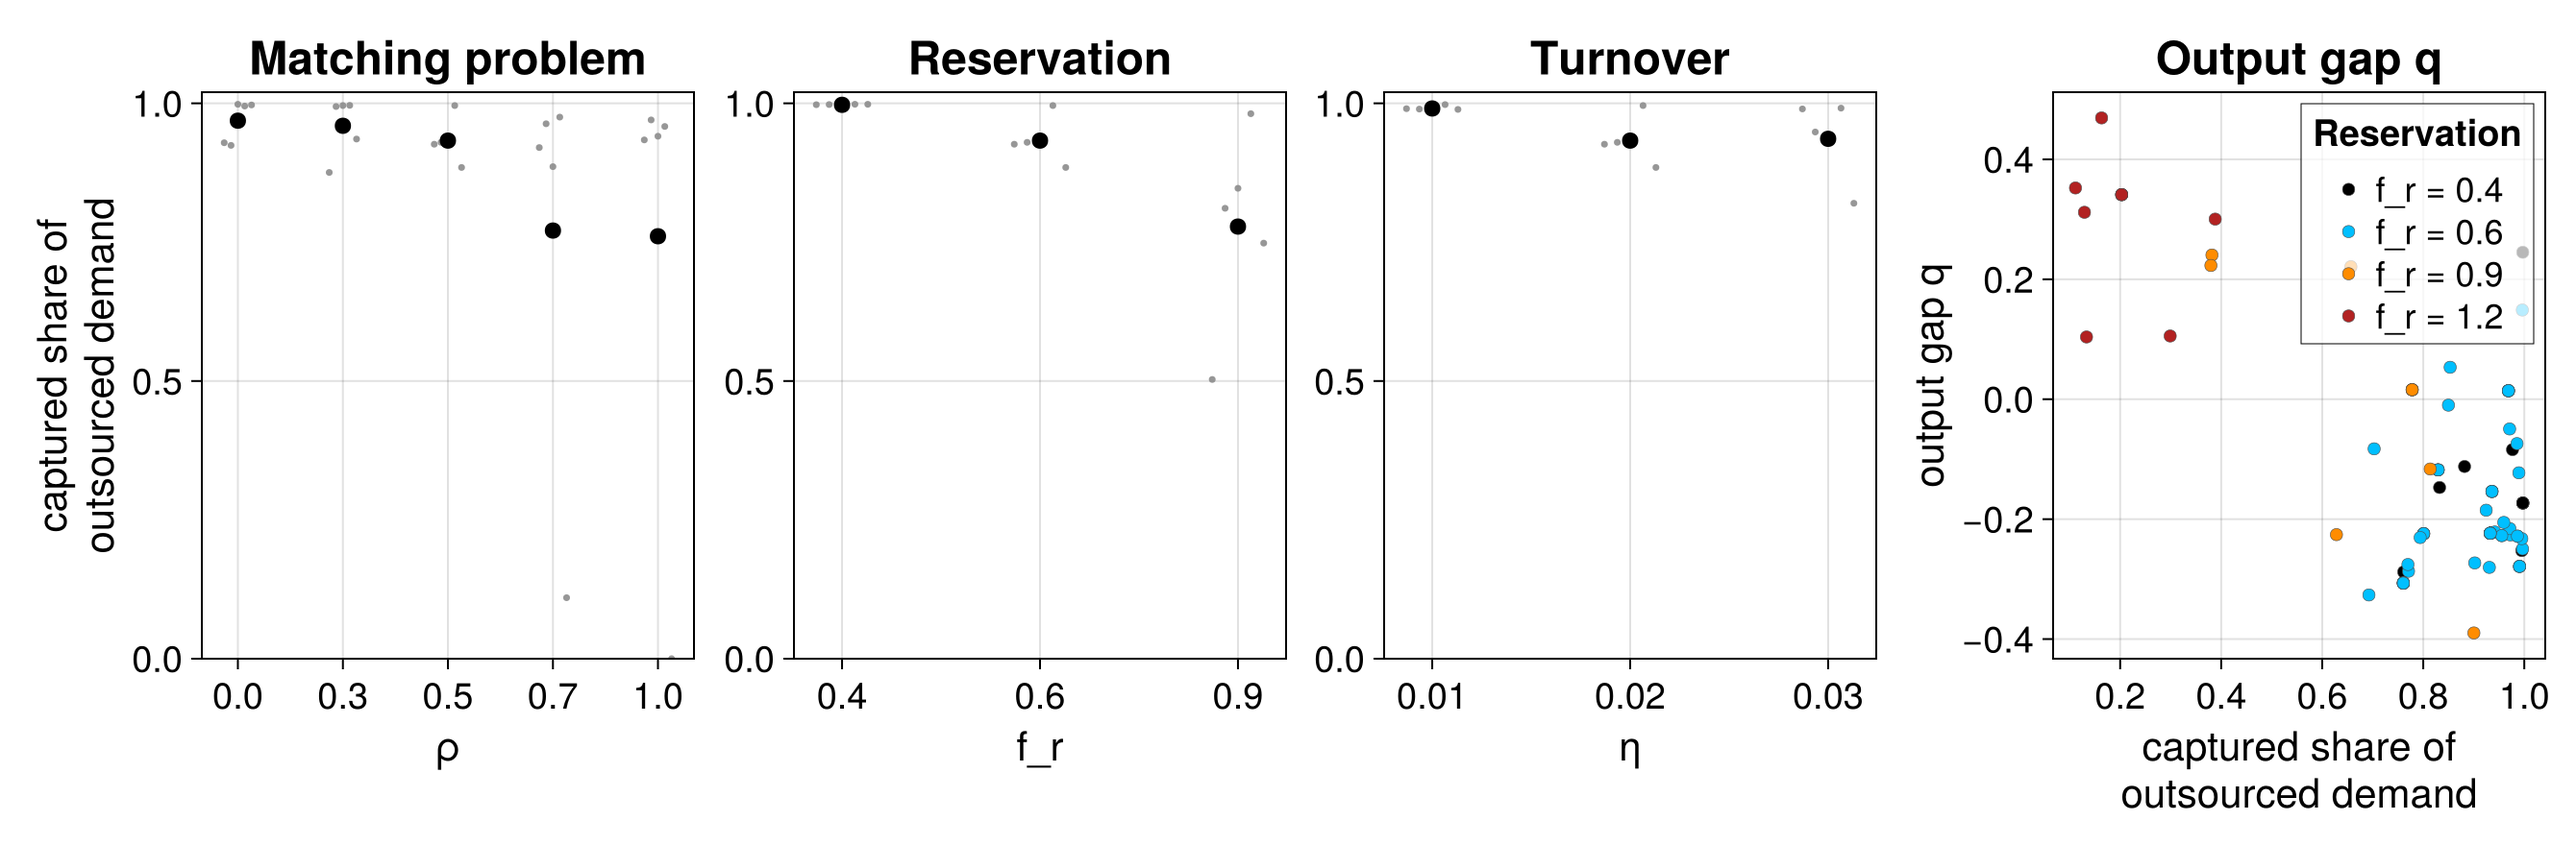
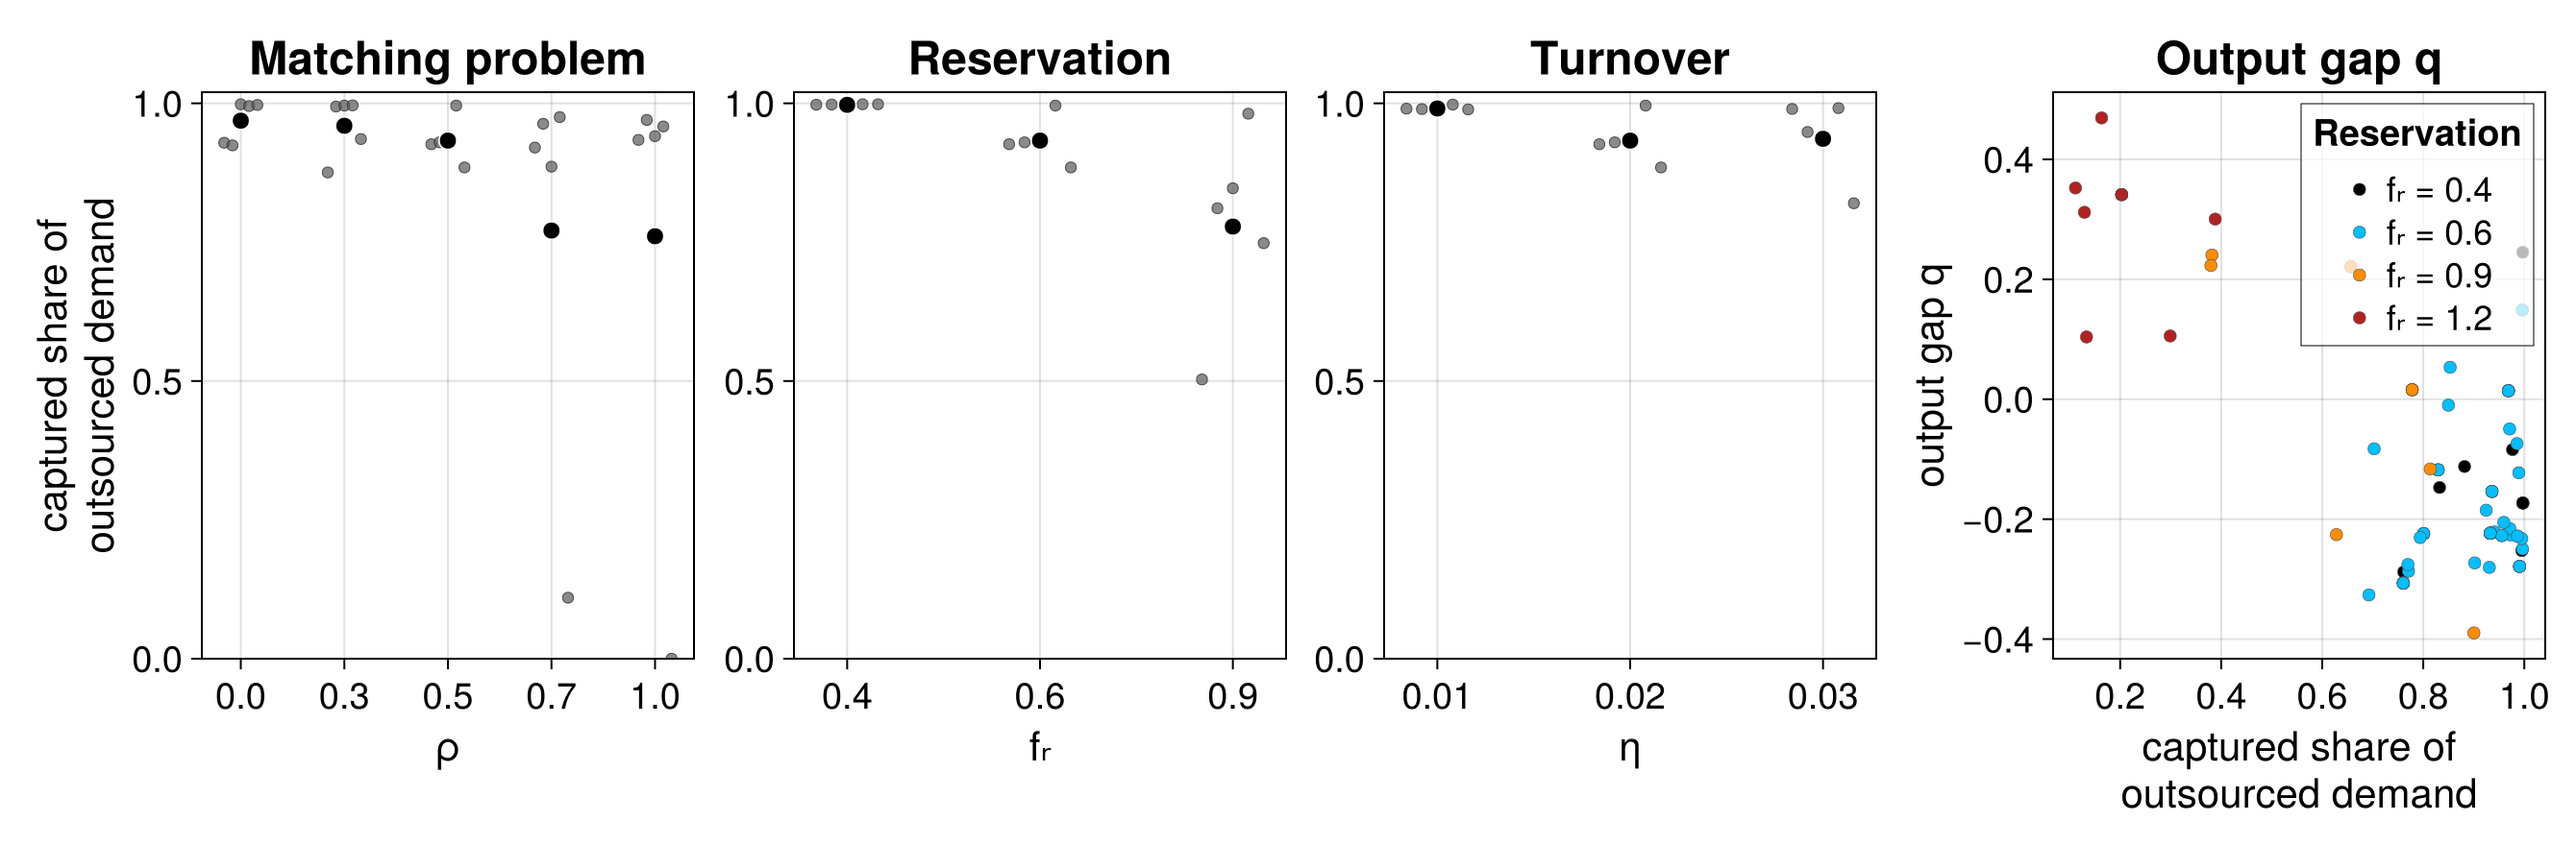
Fix figure 4 display

diff --git a/paper/results_section.tex b/paper/results_section.tex
@@ -1,7 +1,7 @@
 % results_section.tex: GENERATED, do not edit.
-% Built by scripts/paper/build_section.jl on 2026-06-12 17:47
+% Built by scripts/paper/build_section.jl on 2026-06-12 18:00
 % from section_source.tex + captions.tex + values.tex + figmeta.tex;
-% sweep 2026-06-07_f424438; repo commit 0996a13.
+% sweep 2026-06-07_f424438; repo commit 6329ac8.
 % Every number was computed from the saved sweep data by scripts/paper/stats.jl.
 
 \section{Results}
